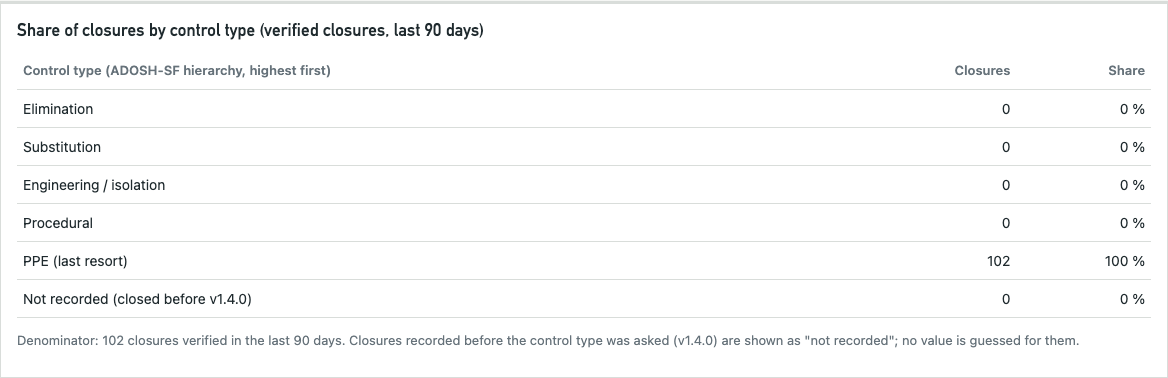
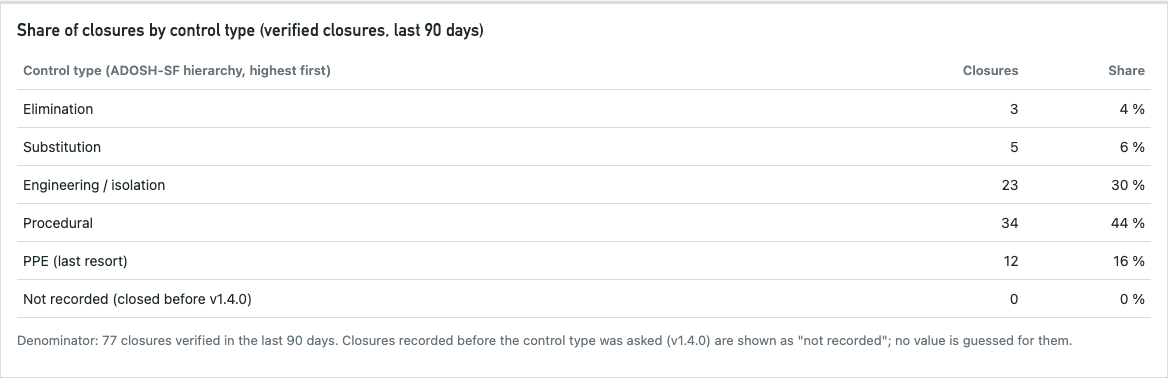
Docs: review scope, regenerated history, likelihood label, fresh screenshots

diff --git a/docs/screenshots/shoot_adosh.py b/docs/screenshots/shoot_adosh.py
@@ -1,4 +1,4 @@
-"""Screenshots for v1.4.0 (1366 px): the ADOSH-SF risk matrix page, the closure form with control type and residual
+"""Screenshots for v1.4.0/v1.4.1 (1366 px): the manager home, the ADOSH-SF risk matrix page, the closure form with control type and residual
 risk, and the manager's control-type panel. Uses a fresh seeded database, as in shoot.py:
 
     SHMS_DATABASE_URL=sqlite:////tmp/ui.db SHMS_DETECTOR=mock uvicorn shms.asgi:app --port 8765 &
@@ -54,6 +54,8 @@ with sync_playwright() as p:
     ctx.close()
 
     ctx, pg = signed_in(br, "yousef")  # manager
+    fits(pg, "manager home (full page)")
+    pg.screenshot(path=f"{out}/desktop_manager_home.png", full_page=True)
     panel = pg.locator("#control-types")
     panel.scroll_into_view_if_needed()
     fits(pg, "manager home")

diff --git a/README.md b/README.md
@@ -127,12 +127,13 @@ consequence levels and definitions from Table 1 (human health and safety; produc
 likelihood levels from Table 2, and the Table 3 grid with its band names (Low 1–3, Moderate 4–6, High 8–12, Extreme
 15–25; score 5 is Moderate, 9 and 10 High and 16 Extreme, read from the table's cell colours) and action texts. The
 `/matrix` page separates this from what the project defined: the history-based likelihood (similar hazards in the
-same area in the last 365 days: 0 → 1, 1 → 2, 2 → 3, 3–5 → 4, ≥ 6 → 5 – a **project heuristic**, not a validated
-likelihood), the close-out targets (the guideline sets no time frames) and the alert rule (High/Extreme, or
+same area in the last 365 days: 0 → 1, 1 → 2, 2 → 3, 3–5 → 4, ≥ 6 → 5), the close-out targets (the guideline sets no time frames) and the alert rule (High/Extreme, or
 consequence ≥ 4 in any band, after Sec. 5(b)). Closures record the control type from the hierarchy of controls
 (Sec. 5.3.4(c)) and the residual risk (Appendix 2). Source, page numbers and the PDF's SHA-256:
 [docs/risk_matrix_source.md](docs/risk_matrix_source.md). Values are in `shms/config/risk_matrix.json`; hazard
 categories are in `shms/config/taxonomy.json`.
+
+> **Likelihood:** ADOSH-SF likelihood describes how likely harm is; SHMS estimates it from how often similar hazards were reported in the same area in the last 365 days – a project heuristic, not the guideline's definition.
 
 **Upgrading an existing database:** `alembic upgrade head` (back up the `.db` file first). Migration `0008_adosh_v4`
 adds the closure fields and re-scores every confirmed hazard to the v4.0 matrix, writing an audit event
@@ -146,7 +147,7 @@ uvicorn shms.asgi:app --reload       # or: make run
 ```
 
 Open <http://127.0.0.1:8000>. (If port 8000 is busy, add `--port 8765` and open that port instead.) On first start the database is created and filled with a synthesized refinery
-(9 areas, 9 users, ~240 historical hazards). Sign in with one of the **demo accounts** below. The password is the
+(9 areas, 9 users, 150 historical hazards over 6 months, regenerated in v1.4.1 – see *What is implemented*). Sign in with one of the **demo accounts** below. The password is the
 same for all of them and is a documented demo value, **not a secret**: `shms-demo-2026`.
 
 | Username | Person (synthesized) | Role |
@@ -165,7 +166,7 @@ Main workflow:
 1. **Report** – as *Ahmed (Operator)*: *Report hazard* → choose area → take/upload a photo (try
    `data/samples/`). Photograph the floor or access route for a physical condition, or a person and task for missing PPE.
    SHMS reads GPS latitude/longitude and the original capture timestamp from supported photo EXIF metadata before storing the resized JPEG. Review these on the confirmation page. A timestamp without an offset is shown in camera local time. Missing tags leave fields unavailable. The reporting area and optional illustrative map pin are selected separately. The server records the submission time independently. Existing databases require Alembic revision `0007_photo_capture` (see *Upgrading an existing database*).
-2. **Confirm and score** – choose the condition you observed or confirm a PPE suggestion, choose the worst credible consequence. Likelihood is
+2. **Confirm and score** – choose the condition you observed or confirm a PPE suggestion, choose the worst credible consequence. Likelihood is set by the system (a project heuristic, see *Configuration*) and is
    computed from the area's history and the risk level and target close date are shown. Tick *I already fixed it
    on the spot* to record the action taken and a closing photo.
 3. **Plan, close, verify** – the hazard goes to the Area Owner (e.g. *Khalid* for Digestion); High and Extreme
@@ -415,7 +416,7 @@ cause unknown** (details in `docs/verification.md`).
 | **Implemented + tested** | photo report with AI suggestion and manual fallback; risk scoring on the ADOSH-SF v4.0 5 × 5 matrix, alerts for High/Extreme or consequence ≥ 4, control type (hierarchy of controls) and residual risk at closure; workflow draft → open → planned → pending verification → closed with reject/reopen, four-eyes verification and a from/to audit trail; overdue escalation; in-app notifications; sign-in with hashed passwords, signed sessions, CSRF, hashed API tokens, per-object access rules, safe uploads; Alembic migrations; role home pages, process plan, area details, optional pins, illustrative walkway routing, dashboard, risk-matrix page; AI monitoring and `/metrics`; release gate; offline evaluation on SH17 and the external dataset; Docker image; CI |
 | **Simulated** | all people, areas, layout and 6-month hazard history (synthesized); reporter acceptance on held-out data; e-mail (written to a local outbox, never sent); demo accounts with one documented password |
 | **Experimental** | liquid-on-the-floor and obstructed-walkway check (synthetic warehouse benchmark and a small positive-only external liquid check; flag off by default); the vision-language model as a PPE detector |
-| **Human checks done** | SH17 label audit by the author personally (commit `4693bc8`; single reviewer, not a multi-annotator study); realism review of the synthesized data and site layout by a refinery safety supervisor, November 2026; risk matrix checked against the ADOSH-SF v4.0 PDF ([source](docs/risk_matrix_source.md)) |
+| **Human checks done** | SH17 label audit by the author personally (commit `4693bc8`; single reviewer, not a multi-annotator study); realism review by a refinery safety supervisor, November 2026 – it covered the site layout and the **earlier** synthetic history (v1.4.0 and before); the history was regenerated afterwards in v1.4.1 (realistic frequencies per area, consequences mostly C2–C3, mixed closure controls) and that regenerated history has not been reviewed; risk matrix checked against the ADOSH-SF v4.0 PDF ([source](docs/risk_matrix_source.md)) |
 | **Planned / not done** | single sign-on; real refinery photos with multi-annotator labels; external validation of eye protection and gloves |
 
 ## Data, privacy and limitations

diff --git a/docs/verification.md b/docs/verification.md
@@ -1322,3 +1322,70 @@ synthetic data. It is not a finding about a real site.
 (`pytest --cov=shms --cov=evaluation`) is 72 % on a fresh clone of the branch with Python 3.12 (2,480 of 3,421;
 2,482 on the development machine). The fresh clone ran 371 tests, all passed, with ruff clean. The Docker smoke test passed: healthy,
 401 without a token, dashboard and `/metrics` with a token, non-root user, no tracebacks.
+
+# v1.4.1 (2026-11-25) – realistic synthetic history, likelihood label
+
+**Scope of the realism review.** In November 2026 a refinery safety supervisor reviewed the site layout and the
+synthetic history as it stood then (v1.4.0 and earlier). In v1.4.1 the history was regenerated, after that review.
+The regenerated history has not been reviewed.
+
+**What changed (`shms/seed.py` only; the ADOSH-SF matrix, bands and the 365-day rule are unchanged).**
+- 150 reports over 6 months (was 240).
+- Per-area frequencies:
+  - caustic areas (DIG, CLR, FLT, TNK) have more eye/face and glove findings;
+  - bauxite handling and grinding have more hard-hat findings;
+  - calcination has more hot-work glove findings;
+  - the powerhouse has more open panels.
+- Physical conditions are reported in every area.
+- Consequences: missing-PPE findings are mostly C2–C3. C4 appears only with a stated context: no face shield at a
+  caustic sampling point during line breaking, bare hands on a caustic sample valve, or grating removed at a raised
+  edge.
+- Closure controls are mixed. The residual consequence is never higher than the original.
+- The seed is fixed (42). `tests/test_seed_realism.py` checks the targets.
+
+**Distribution after scoring with the v1.4.0 rules** (all 150 open and closed hazards, with `now` = 25 Nov 2026 12:00;
+the history is generated relative to `now`, so the result is the same for any date):
+
+| Band | Hazards | Share | Target |
+|---|---:|---:|---|
+| Low | 60 | 40 % | 30–40 % |
+| Moderate | 53 | 35 % | 30–40 % |
+| High | 36 | 24 % | 15–25 % |
+| Extreme | 1 | 1 % | ≤ 8 % |
+
+| Area | Total | Low | Moderate | High | Extreme |
+|---|---:|---:|---:|---:|---:|
+| BXH Bauxite Handling | 15 | 6 | 5 | 4 | 0 |
+| GRD Grinding & Desilication | 13 | 8 | 5 | 0 | 0 |
+| DIG Digestion | 24 | 6 | 9 | 9 | 0 |
+| CLR Clarification | 23 | 7 | 7 | 9 | 0 |
+| FLT Security Filtration | 20 | 5 | 9 | 5 | 1 |
+| PRC Precipitation | 15 | 7 | 5 | 3 | 0 |
+| CAL Calcination | 12 | 9 | 2 | 1 | 0 |
+| TNK Caustic Tank Farm | 15 | 7 | 6 | 2 | 0 |
+| PWR Powerhouse & Utilities | 13 | 5 | 5 | 3 | 0 |
+
+- Consequence: C1 17, C2 80, C3 48, C4 5.
+- Likelihood: L1 54, L2 41, L3 25, L4 27, L5 3.
+- Status: 136 closed, 4 awaiting verification, 10 open.
+- Types: eye/face 29, gloves 27, floor liquid 26, hard hat 24, corrosion 15, open panel 10, walkway obstruction 8,
+  floor opening 6, other 5.
+
+**Closure-control mix** (140 closures with a control):
+
+| Control | Count | Share |
+|---|---:|---:|
+| Procedural | 56 | 40 % |
+| Engineering / isolation | 49 | 35 % |
+| PPE | 22 | 16 % |
+| Substitution | 7 | 5 % |
+| Elimination | 6 | 4 % |
+
+**Likelihood label.** `risk.LIKELIHOOD_NOTE` reads: "ADOSH-SF likelihood describes how likely harm is; SHMS
+estimates it from how often similar hazards were reported in the same area in the last 365 days – a project
+heuristic, not the guideline's definition."
+- It is shown on the /matrix page twice: under Table 2 and in the project section.
+- On the confirm page it is the tooltip on "Likelihood" and also appears as visible text.
+- On the hazard page it is shown under the risk line.
+- It also appears in the README, architecture.md, risk_matrix_source.md and requirements.md.
+- `tests/test_likelihood_label.py` checks all of these.

diff --git a/docs/requirements.md b/docs/requirements.md
@@ -9,7 +9,7 @@ and links every story to where it is implemented and tested.
 |---|---|---|---|---|---|
 | US1 | field operator or contractor | report a hazard with a phone photo in a few taps | it is captured before someone is hurt | `/report`, `services.create_draft` | `test_api::test_full_workflow_and_dashboard_update`, `test_html_report_flow` |
 | US2 | reporter | see what the AI found on my photo and confirm or correct it | the classification is fast but stays my decision | `/hazards/{id}/confirm`, AI evidence boxes | `test_html_report_flow`, `test_reporter_can_correct_ai` |
-| US3 | reporter | choose a consequence level defined by ADOSH-SF Table 1 while the system estimates likelihood (Table 2) | risk is scored consistently on the ADOSH-SF v4.0 5 × 5 matrix (Table 3) | `risk.py`, `config/risk_matrix.json`, `/matrix`, [source](risk_matrix_source.md) | `test_risk.py::test_every_matrix_cell_matches_the_guideline_table` (all 25 cells against the PDF grid), `test_unassigned_scores_take_the_band_of_their_cell_colour`, `test_likelihood_grows_with_similar_history` |
+| US3 | reporter | choose a consequence level defined by ADOSH-SF Table 1 while the system estimates likelihood (Table 2; ADOSH-SF likelihood describes how likely harm is; SHMS estimates it from how often similar hazards were reported in the same area in the last 365 days – a project heuristic, not the guideline's definition.) | risk is scored consistently on the ADOSH-SF v4.0 5 × 5 matrix (Table 3) | `risk.py`, `config/risk_matrix.json`, `/matrix`, [source](risk_matrix_source.md) | `test_risk.py::test_every_matrix_cell_matches_the_guideline_table` (all 25 cells against the PDF grid), `test_unassigned_scores_take_the_band_of_their_cell_colour`, `test_likelihood_grows_with_similar_history` |
 | US4 | reporter who already fixed the hazard | record the action taken and a closing photo | the fix is documented and can be reused elsewhere | confirm form "fixed on the spot" | `test_fixed_on_spot_records_how_and_awaits_verification` |
 | US5 | Area Owner | receive open hazards for my areas, plan an action and close them with what was done | nothing is closed without a record of how | `/queue`, `/hazards/{id}` plan/close | `test_owner_closes_with_documented_action`, `test_only_owner_or_supervisor_can_close` |
 | US6 | safety supervisor | be alerted to High and Extreme hazards and trace every action on them | serious hazards get attention at once | notifications, audit trail | `test_high_risk_alerts_supervisor_and_owner`, `test_high_band_alert_says_why` |

diff --git a/docs/architecture.md b/docs/architecture.md
@@ -80,7 +80,7 @@ flowchart LR
 5. **Reporting and AI eligibility are separate.** Physical conditions can be confirmed in any area. The same area-level list validates form and API submissions. PPE suggestions are filtered by area and the release gate. Optional floor-liquid and obstruction observations never preselect a category. A new manual category needs a taxonomy entry rather than a database migration.
 6. **Likelihood is computed, not guessed.** It comes from the number of similar hazards in the same area in the
    last 365 days, mapped onto the ADOSH-SF Table 2 levels (0 → Rare, 1 → Possible, 2 → Likely, 3–5 → Often, ≥ 6 →
-   Frequent – a project interpretation). This links individual cases (problem 1 in the proposal) and makes repeat
+   Frequent – a project interpretation). ADOSH-SF likelihood describes how likely harm is; SHMS estimates it from how often similar hazards were reported in the same area in the last 365 days – a project heuristic, not the guideline's definition. This links individual cases (problem 1 in the proposal) and makes repeat
    hazards rise in risk. Matrix, band names and action texts follow the ADOSH-SF Technical Guideline "Process of Risk
    Management" v4.0; close-out targets are project-defined because the guideline sets none.
 7. **Modular monolith, not microservices.** One team, one database and one deployment; modules have clear

diff --git a/docs/risk_matrix_source.md b/docs/risk_matrix_source.md
@@ -39,6 +39,8 @@ definitions "have been adopted from HB 203:2000" (5.3(l), p. 8).
 
 Table 3 labels level 5 "Frequent/ Almost Certain"; SHMS uses "Frequent / Almost certain".
 
+**ADOSH-SF likelihood describes how likely harm is; SHMS estimates it from how often similar hazards were reported in the same area in the last 365 days – a project heuristic, not the guideline's definition.**
+
 **Project interpretation (not in the guideline):** SHMS sets likelihood from confirmed hazards of the same type in
 the same area in the previous 365 days: 0 → 1, 1 → 2, 2 → 3, 3–5 → 4, ≥ 6 → 5. The guideline allows estimates from
 "past records" (5.3(f)(i)) but defines no counts.
